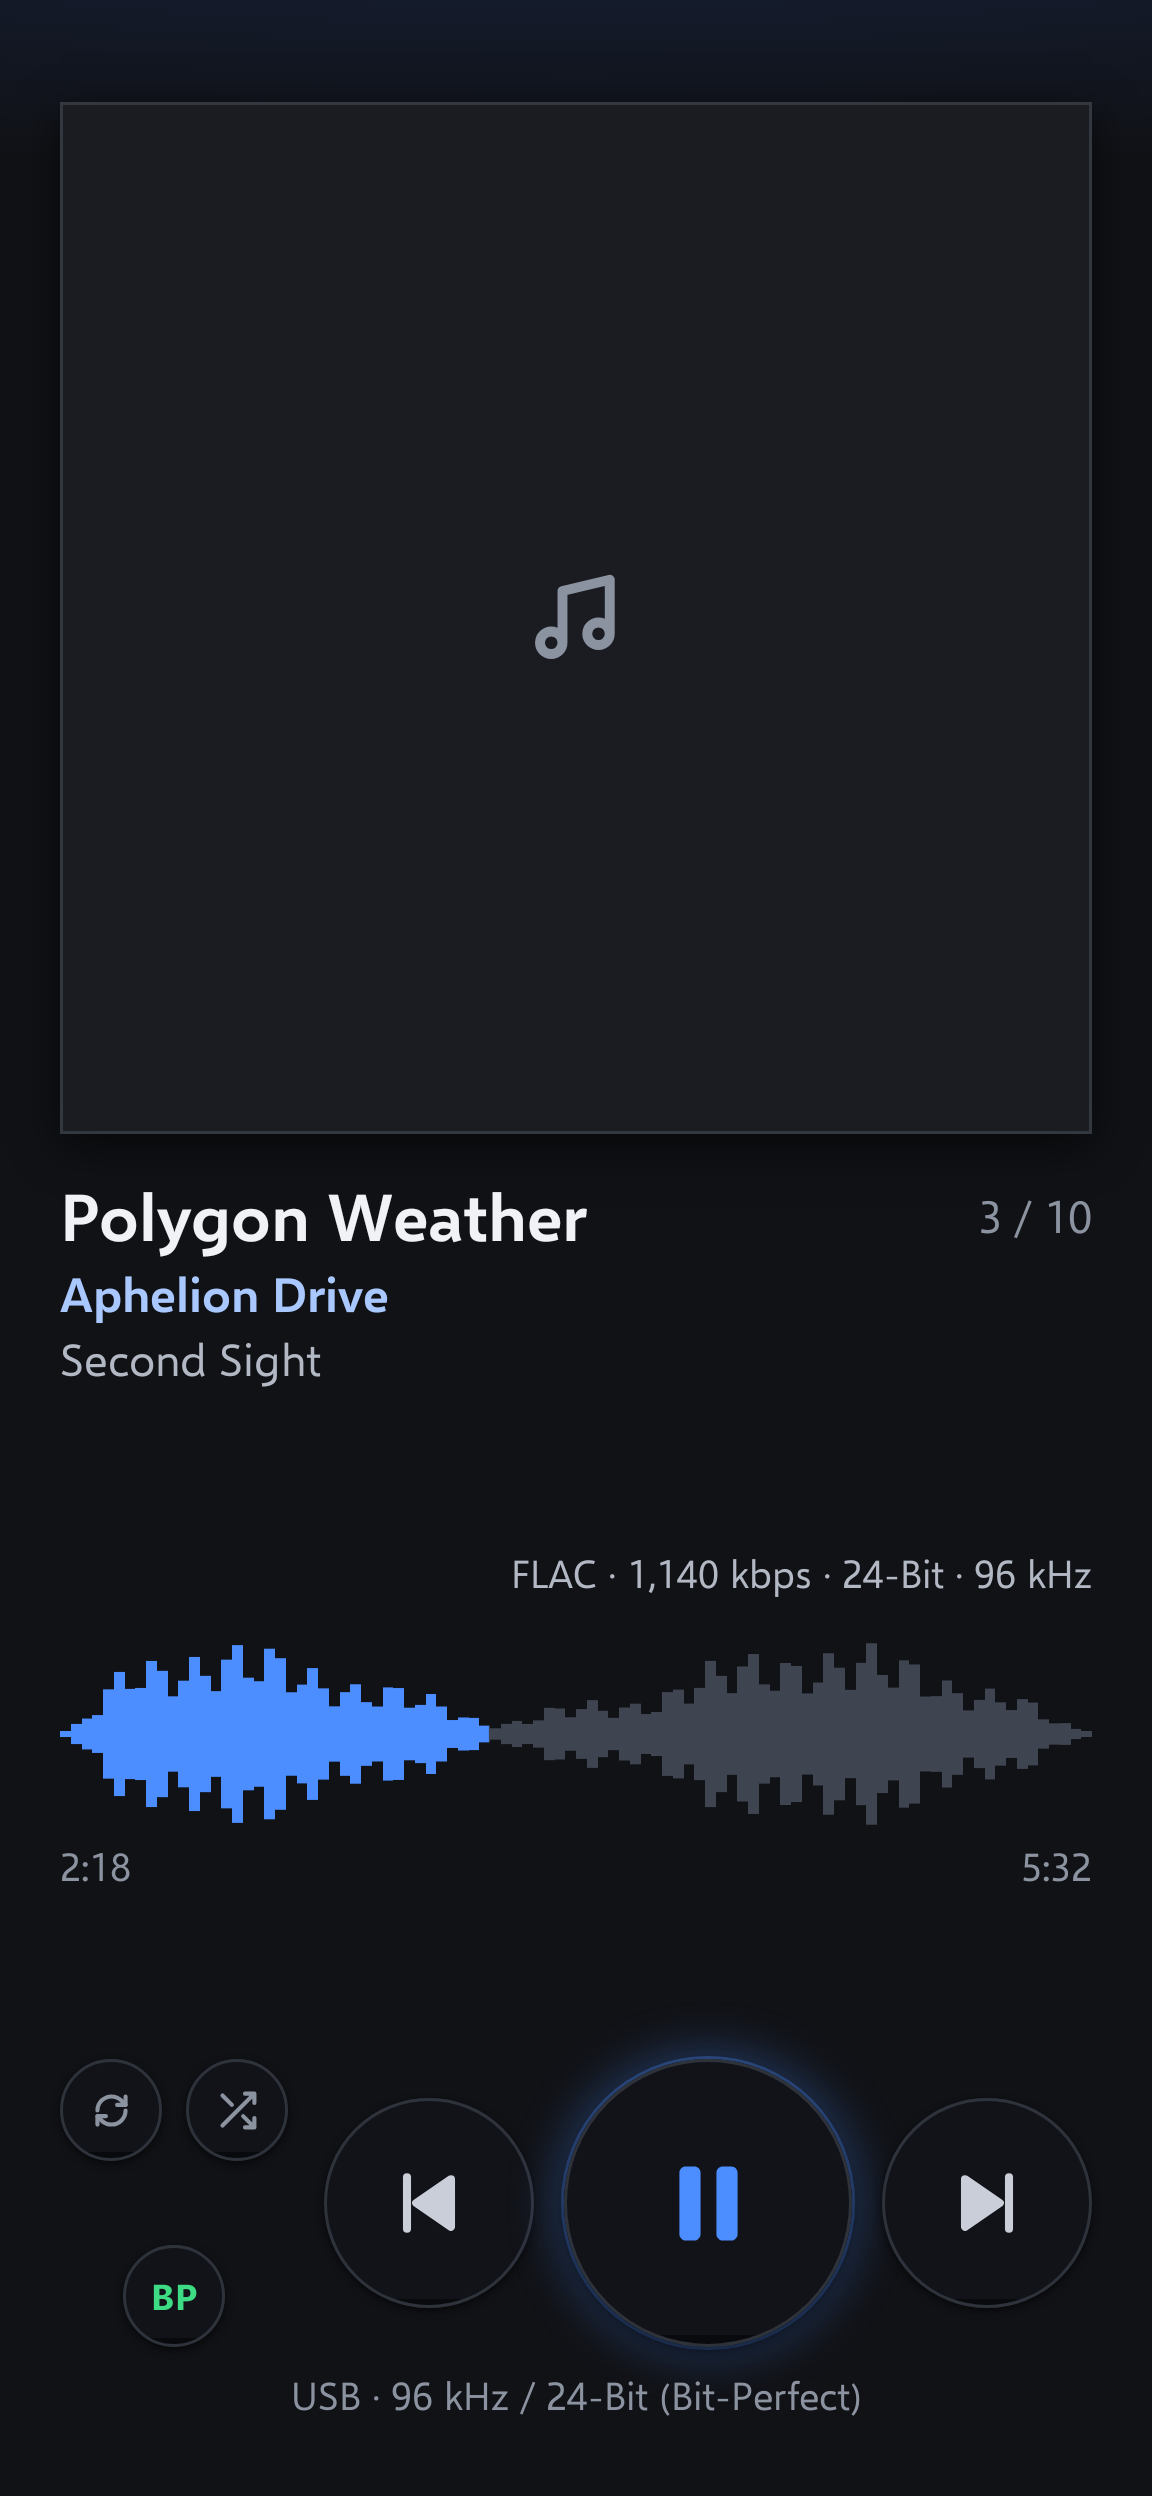
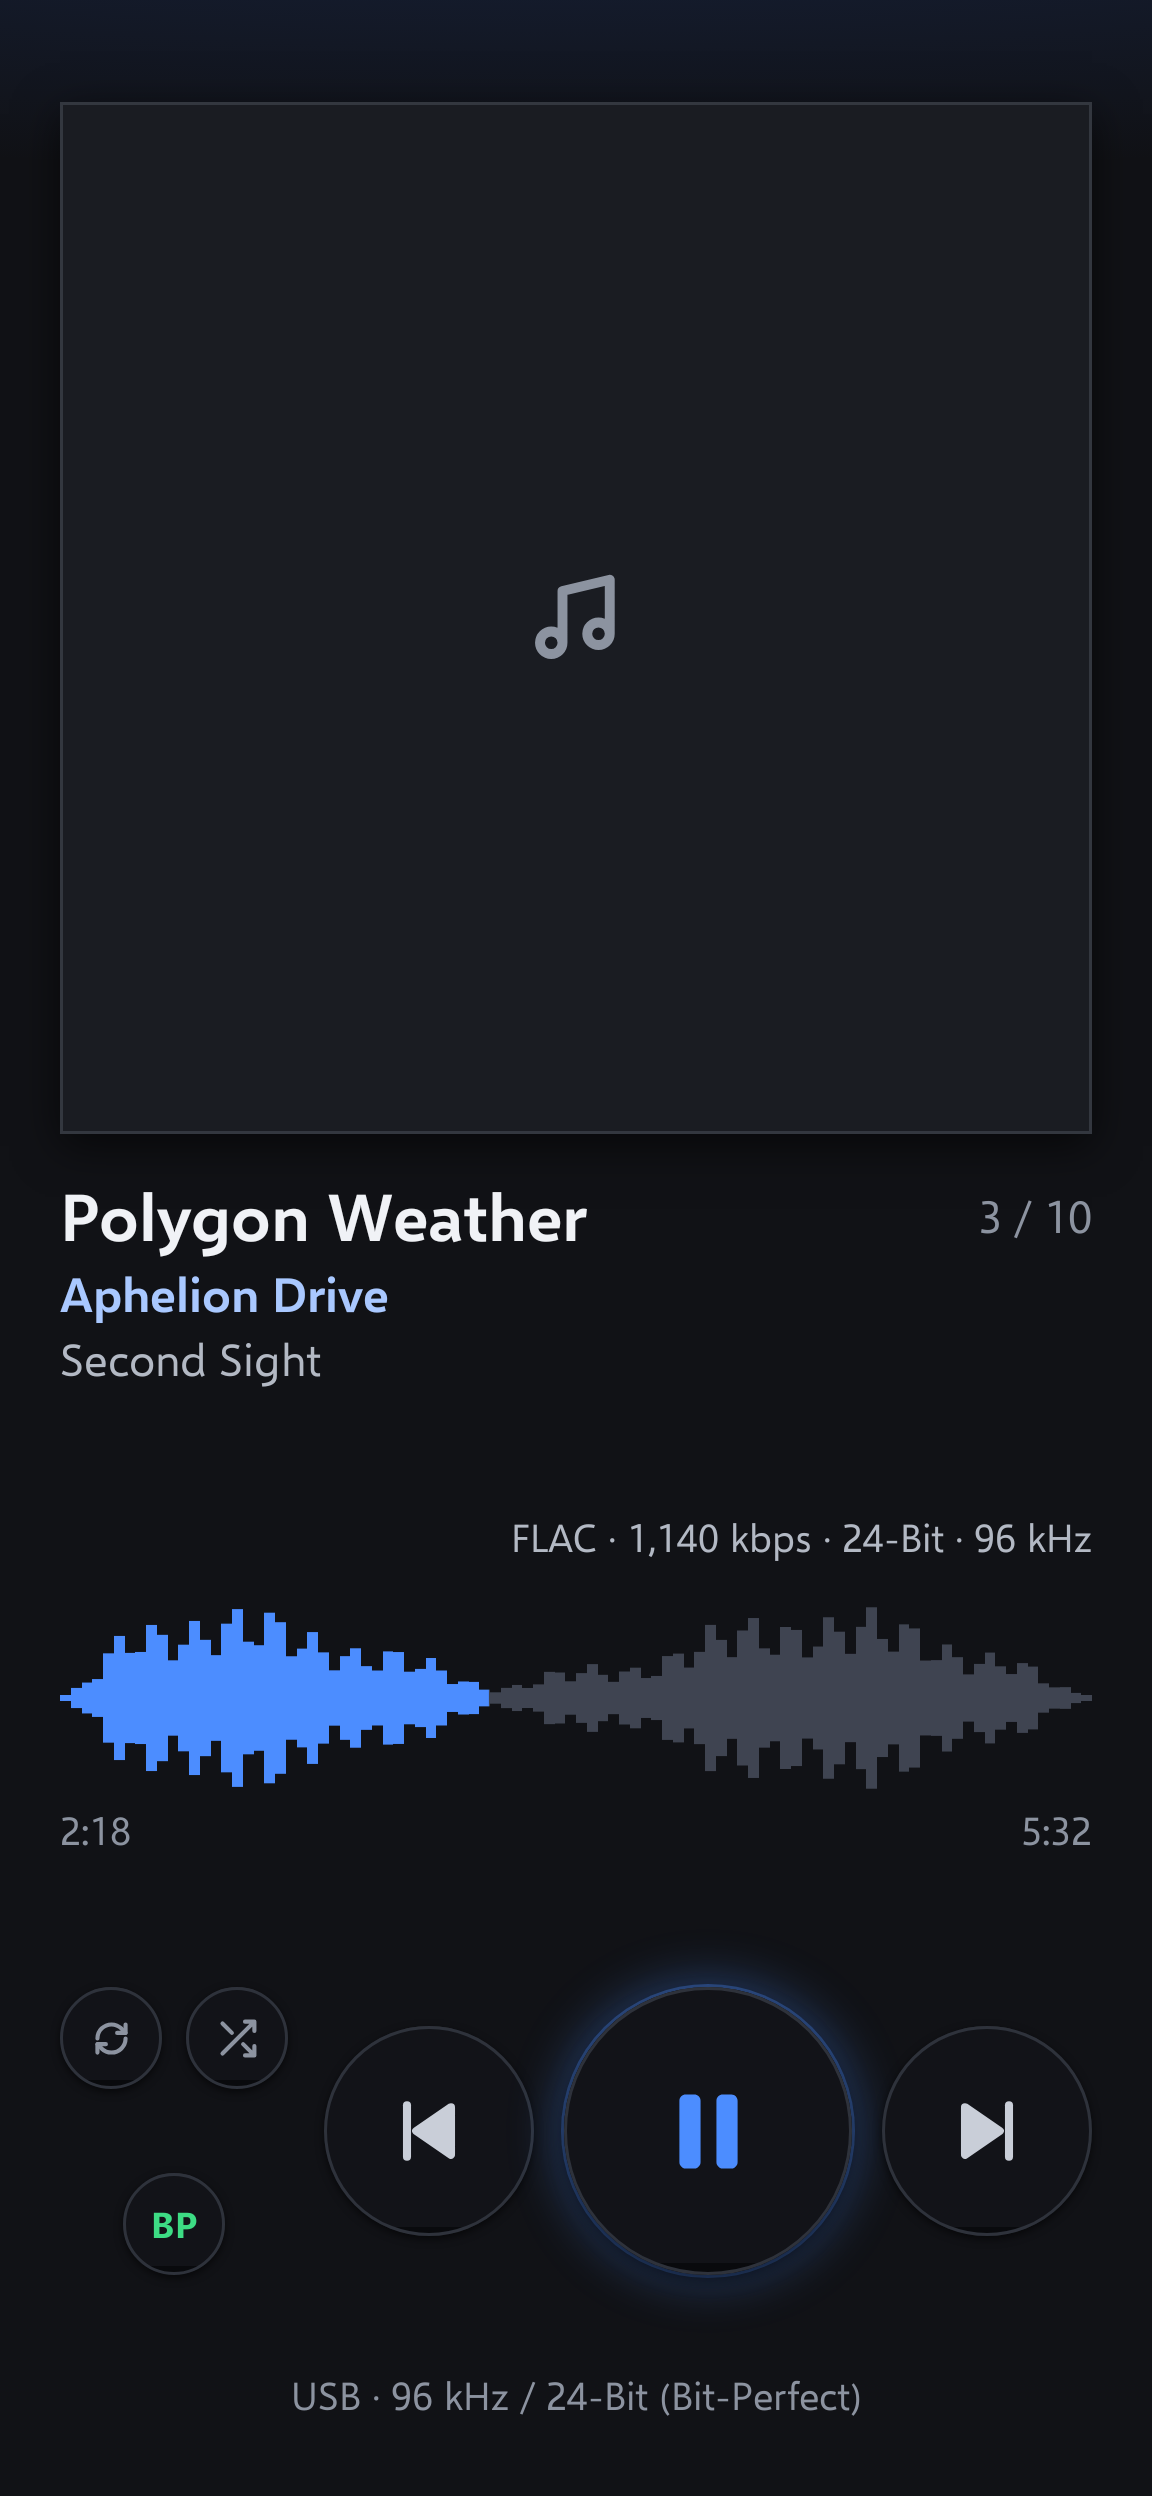
Now Playing on the S24: the six buttons 24 dp higher
The user found them too close to the bottom to press comfortably. A gap
from the spare height (0.2 of it, up to 24 dp) now sits between the
controls row and the readout, which stays where it was. No spare on the
M21, so it is unchanged. Also ticks the plug guard, confirmed on the S24.

diff --git a/app/src/main/java/com/mpaulrenlund/audiofool/ui/NowPlayingScreen.kt b/app/src/main/java/com/mpaulrenlund/audiofool/ui/NowPlayingScreen.kt
@@ -116,6 +116,9 @@ fun NowPlayingScreen(nowPlaying: NowPlaying, actions: NowPlayingActions) {
             val aboveWeight = t.number("nowPlaying.spaceAboveQualityWeight").toFloat()
             val belowWeight = t.number("nowPlaying.spaceBelowTimesWeight").toFloat()
             val evenness = (spare / t.dp("nowPlaying.spareEvenAt")).coerceIn(0f, 1f)
+            // 0.2.4 (the user's call): the S24's six buttons sat too low to press comfortably; spare height
+            // between them and the readout lifts them, the readout staying put.
+            val controlsLift = minOf(spare * t.number("nowPlaying.controlsLift.ofSpare").toFloat(), t.dp("nowPlaying.controlsLift.max"))
 
             Column(Modifier.fillMaxSize()) {
                 SwipeToSkip(track, art, actions) {
@@ -131,6 +134,7 @@ fun NowPlayingScreen(nowPlaying: NowPlaying, actions: NowPlayingActions) {
                 }
                 Spacer(Modifier.weight(belowWeight + (aboveWeight - belowWeight) * evenness))
                 Controls(nowPlaying, actions, screenHeight)
+                Spacer(Modifier.height(controlsLift))
                 Line(
                     nowPlaying.readout,
                     t.text("nowPlaying.outputSize", "color.text.muted").copy(textAlign = TextAlign.Center),

diff --git a/design/android-spec.md b/design/android-spec.md
@@ -122,7 +122,7 @@ Opens from the mini player, and when a song is tapped (in a list or in Search). 
 5. **Waveform seekbar**, full width, 40 dp (64 on the S24, from its spare height; see 3): the track's waveform as 96 hard-edged bars, played part `slider.seekFill`, the rest `slider.track`. The split falls at the exact place, through the bar being played, so it glides while playing (the desktop's `WaveformView`; 0.2.0, the user's report). Drag or tap to seek. Compute it as the desktop's `Waveform` does, in the background, cached per file. Until it's ready, show a flat bar `waveformFloor` high.
 6. **Elapsed** left, **total** right (13, `text.muted`).
 7. Flexible space, weight 1 (up to 3 with spare height; see 3).
-8. **Controls row**: on the left, three 34 dp round buttons: **Repeat** and **Shuffle** side by side, 8 dp apart, their tops level with Play/Pause's top, and **BP** centred under them, its bottom level with Play/Pause's bottom (the user's call, 0.2.2; a column of three before). On the right, for a right thumb, **Previous**, **Play/Pause** and **Next**, centred on Play/Pause. Their size follows the screen height (`nowPlaying.skipButton`, `playButton`, `transportGap`: a fraction of the screen height, between a min and max). That gives 70 / 96 / 22 dp on the S24 and about 57 / 78 / 17 dp on the M21. At least `modeToTransportGap` (12 dp) lies between the two groups; where that doesn't fit, the transport's gaps shrink (the S24: about 10 dp).
+8. **Controls row**: on the left, three 34 dp round buttons: **Repeat** and **Shuffle** side by side, 8 dp apart, their tops level with Play/Pause's top, and **BP** centred under them, its bottom level with Play/Pause's bottom (the user's call, 0.2.2; a column of three before). On the right, for a right thumb, **Previous**, **Play/Pause** and **Next**, centred on Play/Pause. Their size follows the screen height (`nowPlaying.skipButton`, `playButton`, `transportGap`: a fraction of the screen height, between a min and max). That gives 70 / 96 / 22 dp on the S24 and about 57 / 78 / 17 dp on the M21. At least `modeToTransportGap` (12 dp) lies between the two groups; where that doesn't fit, the transport's gaps shrink (the S24: about 10 dp). With spare height (see 3) the row sits `controlsLift` above the readout (0.2.4, the user's call: the S24's buttons were too close to the bottom to press comfortably): 0.2 of the spare, up to 24 dp, so 24 dp on the S24 and none on the M21. The readout stays where it was.
 9. **Output readout**, centred (13, `text.muted`), e.g. "Speaker · 48 kHz (Resampled)" (§6.3).
 
 Repeat: off `control.iconOff`; on `control.repeatOn`; repeat-one adds the desktop's "1" badge (`playbackBar.repeatOneBadge`). Shuffle: off `control.iconOff`, on `control.shuffleOn`. Order and repeat follow the desktop's `PlayOrder`.

diff --git a/design/progress.md b/design/progress.md
@@ -38,6 +38,18 @@ The user made these while the mockups were designed (October 2026). The spec alr
 
 ## Decisions made for the build
 
+0.2.4 (2026-10-26), not yet released:
+
+- **The S24's six buttons higher** (the user: "too close to the bottom of the screen, which
+  makes pressing them a little awkward. The output row can stay where it is"; S24 only). A
+  gap of `controlsLift` between the controls row and the readout: 0.2 of the spare height (as
+  0.2.3's), up to 24 dp. 24 dp on the S24 (16 at font size 1.3), 0 on the M21. The readout
+  stays put; the room comes out of the two flexible gaps above, so the quality line, seekbar
+  and times sit about 12 dp higher too (mine: the simplest way, and the gaps stay even).
+- **Checked:** `:core:test`, `:app:testDebugUnitTest`, ThemeLab re-recorded: only the 12 S24 Now
+  Playing pictures changed (both themes, font size 1.3 included); the readout is at the same
+  place, the buttons 24 dp higher.
+
 0.2.3 (2026-10-26), released as pre-release [`v0.2.3`](https://github.com/mpaulrenlund/AudioFool-Android/releases/tag/v0.2.3) ("AudioFool 0.2.3", versionCode 16):
 
 - **The S24's empty space on Now Playing** (the user: "a little too much empty space on the
@@ -489,6 +501,13 @@ Session 1:
 
 ## To test on the S24
 
+### 0.2.4 (Now Playing's buttons higher)
+
+Not yet released.
+
+- [ ] **Now Playing's six buttons** sit higher, the output row where it was: are they
+  comfortable to press now?
+
 ### 0.2.3 (Now Playing's spacing, plugging in)
 
 Released 2026-10-26 as pre-release [`v0.2.3`](https://github.com/mpaulrenlund/AudioFool-Android/releases/tag/v0.2.3)
@@ -496,7 +515,8 @@ Released 2026-10-26 as pre-release [`v0.2.3`](https://github.com/mpaulrenlund/Au
 
 - [ ] **Now Playing's spacing:** no large gap over the quality line; the space over the
   seekbar and over the controls about even; a taller waveform, still easy to drag.
-- [ ] **Plugging in never starts the music:** paused, plug in the USB DAC, then the USB-C
+- [x] **Plugging in never starts the music** (the user, 2026-10-26: "unplugging/plugging back in
+  is fixed. music isn't automatically playing anymore"): paused, plug in the USB DAC, then the USB-C
   adapter, a few times each: it stays paused. Statistics > Debug > **Plug guard**: the last
   plug's time, and whether a play was ignored or undone (if both stay 0 and it never started,
   the adapter wasn't sending one that time). Unplugged then plugged back while playing: it

diff --git a/HANDOFF.md b/HANDOFF.md
@@ -36,6 +36,13 @@ spec is `design/android-spec.md`.
   row), without the FiiO signals and Outputs rows. Checked in ThemeLab and on the emulator,
   **not yet on a phone**.
 
+### Since 0.2.3 (on `main`, not released)
+
+- **The S24's Now Playing buttons 24 dp higher** (2026-10-26, the user's call): a
+  `controlsLift` gap from the spare height between the controls and the readout, which stays
+  put. M21 pictures unchanged. Goes into **0.2.4**; release only when the user says.
+- **Confirmed on the S24 (0.2.3):** plugging in or out no longer starts the music.
+
 ### What 0.2.3 changed (2026-10-26)
 
 - **Now Playing's spacing on the S24** (2026-10-26, the user's call): the height the S24's
